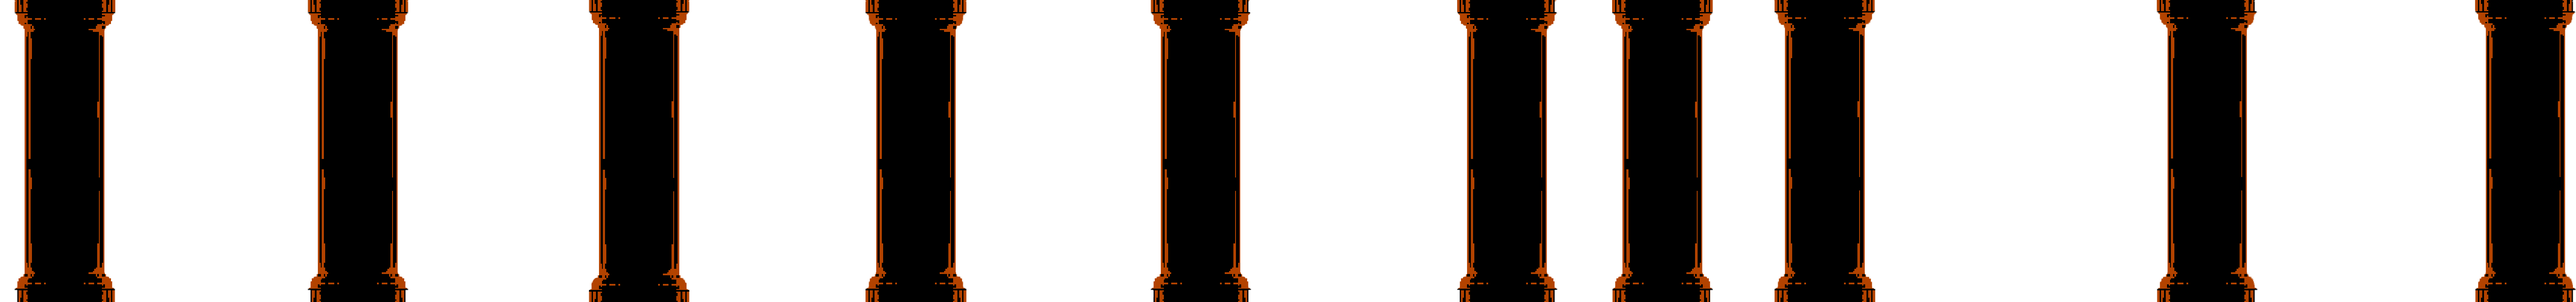
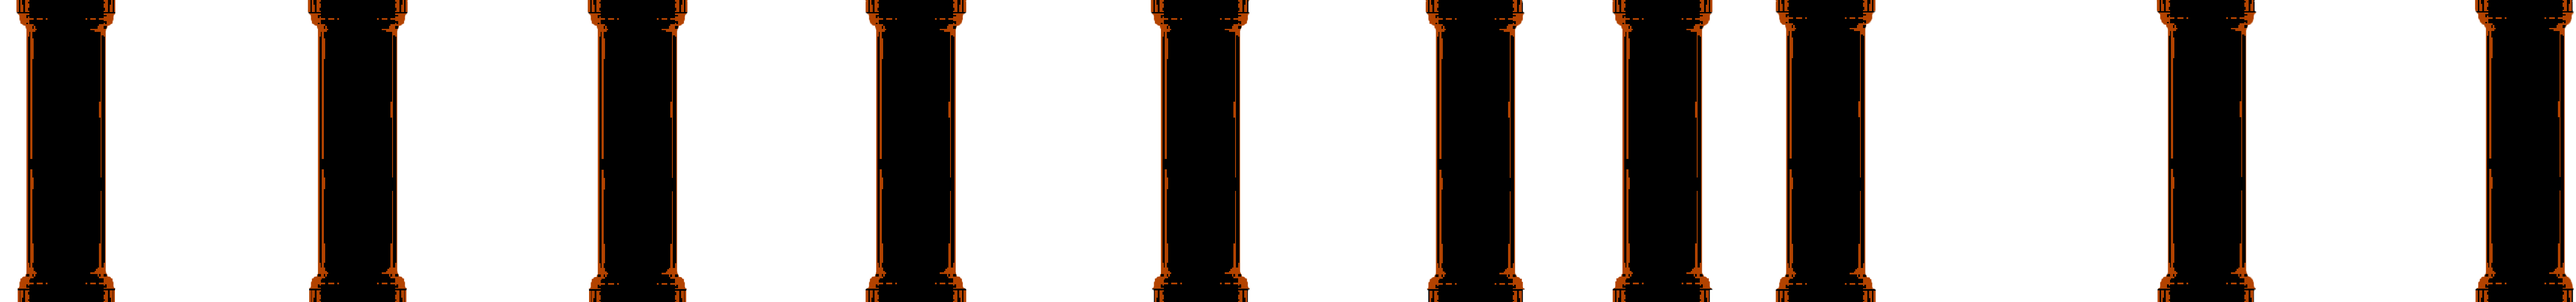
2021-02-04
달리기추가
이미지위치수정

diff --git a/SpaceEngine-master/Space/Player.cpp b/SpaceEngine-master/Space/Player.cpp
@@ -90,18 +90,18 @@ void Player::Move(float deltaTime, float Time)
 			m_Player = m_Player_Up;
 			m_Status = Status::UP;
 			
-			if (!Up) {
+			if (!Up && m_Position.y >= 420) {
 				m_Position.y -= m_Speed * dt;
 				if (m_Player->m_CurrentFrame % 2 == 0)
 					m_Player->Update(deltaTime, Time);
 			}
 			}
-		if (INPUT->GetKey('S') == KeyState::PRESS)
+		else if (INPUT->GetKey('S') == KeyState::PRESS)
 		{
 			m_Player = m_Player_Down;
 			m_Status = Status::DOWN;
 		
-			if (!Down) {
+			if (!Down && m_Position.y <= 615 + 75 / 2) {
 				m_Position.y += m_Speed * dt;
 				if (m_Player->m_CurrentFrame % 2 == 0)
 					m_Player->Update(deltaTime, Time);
@@ -109,29 +109,36 @@ void Player::Move(float deltaTime, float Time)
 		}
 		if (INPUT->GetKey('A') == KeyState::PRESS)
 		{
+
 			m_Player = m_Player_Left;
 			m_Status = Status::LEFT;
 			
-			if (!Left && m_Position.x > 10) {
+			if (!Left && m_Position.x > 40) {
 				m_Position.x -= m_Speed * dt;
 				if (m_Player->m_CurrentFrame % 2 == 0)
 					m_Player->Update(deltaTime, Time);
 
 			}
 		}
-		if (INPUT->GetKey('D') == KeyState::PRESS)
+		else if (INPUT->GetKey('D') == KeyState::PRESS)
 		{
-			m_Player = m_Player_Right;
+			m_Player = m_Player_Right;	
 			m_Status = Status::RIGHT;
 
-			if (!Right) {
+			if (!Right && m_Position.x < 4160) {
 				m_Position.x += m_Speed * dt;
 
 				if (m_Player->m_CurrentFrame % 2 == 0)
 					m_Player->Update(deltaTime, Time);
 			}
 		}
-
+		if (INPUT->GetKey(VK_SHIFT) == KeyState::PRESS)
+		{
+			m_Speed = 1000.f;
+		}
+		else {
+			m_Speed = 450.f;
+		}
 		if (m_Status != Status::NONE && m_Player->m_CurrentFrame % 2 != 0)
 		{
 			m_Player->Update(deltaTime, Time);
@@ -171,7 +178,16 @@ void Player::Update(float deltaTime, float Time)
 	}
 	if (INPUT->GetKey(VK_F2) == KeyState::DOWN)
 	{
-		SceneDirector::GetInst()->ChangeScene(new BattleScene());
+		ObjMgr->DeleteObject("Chet");
+		ObjMgr->DeleteObject("Chest");
+		ObjMgr->DeleteObject("Save");
+		ObjMgr->DeleteObject("sans");
+		ObjMgr->DeleteObject("Solids");
+		ObjMgr->DeleteObject("Pillar");
+		UI::GetInst()->b = false;
+		UI::GetInst()->d = false;
+		ObjMgr->AddObject(new Heart(Vec2(m_Position.x + m_Player->m_Size.x / 2 - 11, m_Position.y + m_Player->m_Size.y / 2)), "Soul");
+		SceneDirector::GetInst()->ChangeScene(new TestScene());
 	}
 	if (INPUT->GetKey('Z') == KeyState::DOWN)
 	{
@@ -211,11 +227,11 @@ void Player::Update(float deltaTime, float Time)
 
 	Move(deltaTime, Time);
 
-	m_ColBox->m_Position = Vec2(m_Position.x, m_Position.y + m_ColBox->m_Size.y+10);
-	m_Left->m_Position = Vec2(m_Position.x-5, m_ColBox->m_Position.y + 20);
-	m_Right->m_Position = Vec2(m_Position.x+ m_ColBox->m_Size.x, m_ColBox->m_Position.y+20);
-	m_Up->m_Position = Vec2(m_Position.x+30, m_Position.y + m_ColBox->m_Size.y+4);
-	m_Down->m_Position = Vec2(m_Position.x+30, m_ColBox-> m_Position.y + m_ColBox->m_Size.y);
+	m_ColBox->m_Position = Vec2(m_Position.x, m_Position.y + m_ColBox->m_Size.y/2);
+	m_Left->m_Position = Vec2(m_Position.x- m_ColBox->m_Size.x / 2, m_Position.y +25);
+	m_Right->m_Position = Vec2(m_Position.x+ m_ColBox->m_Size.x/2, m_Position.y+25);
+	m_Up->m_Position = Vec2(m_Position.x, m_Position.y);
+	m_Down->m_Position = Vec2(m_Position.x,m_Position.y + 50);
 
 	m_Player->SetVertex();
 
@@ -265,7 +281,6 @@ void Player::OnCollision(Object* other)
 			if (IntersectRect(&rc, &m_Down->m_Collision, &other->m_Collision))
 			{
 				Down = true;
-				Left = false;
 				Chest = true;
 			}
 			else if (IntersectRect(&rc, &m_Up->m_Collision, &other->m_Collision))
@@ -290,7 +305,6 @@ void Player::OnCollision(Object* other)
 			if (IntersectRect(&rc, &m_Down->m_Collision, &other->m_Collision))
 			{
 				Down = true;
-				Left = false;
 			}
 			else if (IntersectRect(&rc, &m_Up->m_Collision, &other->m_Collision))
 			{
@@ -305,18 +319,17 @@ void Player::OnCollision(Object* other)
 		{
 			if (IntersectRect(&rc, &m_Left->m_Collision, &other->m_Collision))
 			{
-				Left = true;
+				Right = true;
 				Save = true;
 			}
 			else if (IntersectRect(&rc, &m_Right->m_Collision, &other->m_Collision))
 			{
-				Right = true;
+				Left = true;
 				Save = true;
 			}
 			if (IntersectRect(&rc, &m_Down->m_Collision, &other->m_Collision))
 			{
 				Down = true;
-				Left = false;
 				Save = true;
 			}
 			else if (IntersectRect(&rc, &m_Up->m_Collision, &other->m_Collision))

diff --git a/SpaceEngine-master/Space/Sprite.cpp b/SpaceEngine-master/Space/Sprite.cpp
@@ -49,18 +49,11 @@ Sprite* Sprite::Create(std::wstring fileName, D3DCOLOR ColorKey)
 
 void Sprite::Render()
 {
-	
 	if (m_Parent)
 	{
-		if (m_Parent->m_Tag == "Soul" ||m_Parent->m_Tag == "Bone" || m_Parent->m_Tag == "BlueBone" || m_Parent->m_Tag == "GasterBlaster" || m_Parent->m_Tag == "Platform")
-		{
-			SetRect(&m_Parent->m_Collision, m_Parent->m_Position.x - m_Size.x/2, m_Parent->m_Position.y - m_Size.y/2,
-											m_Parent->m_Position.x + m_Size.x/2 , m_Parent->m_Position.y + m_Size.y/2);
-		}
-		else{
-			SetRect(&m_Parent->m_Collision, m_Parent->m_Position.x - m_Size.x / 2, m_Parent->m_Position.y - m_Size.y,
-				m_Parent->m_Position.x + m_Size.x, m_Parent->m_Position.y + m_Size.y);
-		}
+		SetRect(&m_Parent->m_Collision, m_Parent->m_Position.x - m_Size.x / 2, m_Parent->m_Position.y - m_Size.y / 2,
+			m_Parent->m_Position.x + m_Size.x / 2, m_Parent->m_Position.y + m_Size.y / 2);
+
 		m_Parent->m_Size = m_Size;
 	}
 	else
@@ -68,10 +61,12 @@ void Sprite::Render()
 		SetRect(&m_Collision, m_Position.x - m_Size.x / 2, m_Position.y - m_Size.y / 2,
 			m_Position.x + m_Size.x / 2, m_Position.y + m_Size.y / 2);
 	}
+
 	Camera::GetInst()->Render();
 	m_pSp->Begin(D3DXSPRITE_ALPHABLEND);
 
 	Matrix transForm = Camera::GetInst()->GetWorld() * GetMatrix();
+
 	if (m_Tag == "UI")
 		transForm = GetMatrix();
 	else

diff --git a/SpaceEngine-master/Space/Object.cpp b/SpaceEngine-master/Space/Object.cpp
@@ -31,11 +31,11 @@ Matrix Object::GetMatrix()
 
 	if (m_Tag != "UI" || m_Tag != "Chet")
 	{
-		RotCenter.x = -Camera::GetInst()->m_Position.x + m_RotationCenter.x + m_Size.x / 2;
-		RotCenter.y = -Camera::GetInst()->m_Position.y + m_RotationCenter.y + m_Size.y / 2;
+		RotCenter.x = -Camera::GetInst()->m_Position.x + m_RotationCenter.x ;
+		RotCenter.y = -Camera::GetInst()->m_Position.y + m_RotationCenter.y;
 
-		ScaleCenter.x = -Camera::GetInst()->m_Position.x + m_ScaleCenter.x + m_Size.x / 2;
-		ScaleCenter.y = -Camera::GetInst()->m_Position.y + m_ScaleCenter.y + m_Size.y / 2;
+		ScaleCenter.x = -Camera::GetInst()->m_Position.x + m_ScaleCenter.x ;
+		ScaleCenter.y = -Camera::GetInst()->m_Position.y + m_ScaleCenter.y;
 	}
 	D3DXMatrixTransformation2D(&m_wMat, &ScaleCenter, 0, &m_Scale, &RotCenter, m_Rotation, &m_Position);
 

diff --git a/SpaceEngine-master/Space/Bones.cpp b/SpaceEngine-master/Space/Bones.cpp
@@ -48,12 +48,6 @@ Bones::~Bones()
 
 void Bones::Update(float deltaTime, float Time)
 {
-
-	std::cout << m_Collision.left << std::endl;//774
-	std::cout << m_Collision.right << std::endl;//1146
-	std::cout << m_Collision.top << std::endl;//1174
-	std::cout << m_Collision.bottom << std::endl;
-
 	dtime += dt;
 	if (m_direction == _left) {
 		m_Position.x -= m_Speed * dt;
@@ -69,7 +63,7 @@ void Bones::Update(float deltaTime, float Time)
 	}
 	if (dtime >= 5)
 		ObjMgr->RemoveObject(this);
-	m_Bones->SetPosition(m_Position.x+(m_Size.x-m_Bones->m_Size.x)/2, m_Position.y+ (m_Size.y - m_Bones->m_Size.y)/2);
+	m_Bones->SetPosition(m_Position.x, m_Position.y );
 	
 }
 
@@ -77,10 +71,6 @@ void Bones::Render()
 {
 	m_Bones->Render();
 	m_ColBox->Render();
-
-
-
-	
 }
 
 void Bones::OnCollision(Object* obj)

diff --git a/SpaceEngine-master/Space/Pillar.cpp b/SpaceEngine-master/Space/Pillar.cpp
@@ -30,12 +30,12 @@ void Pillar::Update(float deltaTime, float Time)
 	}
 	
 	if(Pos.x>270)
-	SetPosition(386+200-Pos.x*0.75f + m_Pos , 720/2);
+	SetPosition(2300+ 1300 -Pos.x*0.75f + m_Pos , 720/2);
 
 	if (SceneDirector::GetInst()->m_scene == scene::dialogscene)
 	{
 		ptime += dt;
-		if (ptime > 2 && ptime < 7) {
+		if (ptime > 2 && ptime < 6) {
 			m_Pos -= (70 * dt);
 		}
 		

diff --git a/SpaceEngine-master/Space/Text_Bubbles.cpp b/SpaceEngine-master/Space/Text_Bubbles.cpp
@@ -23,7 +23,7 @@ Text_Bubbles::~Text_Bubbles()
 void Text_Bubbles::Update(float deltaTime, float Time)
 {
 	m_RText->Update(deltaTime, Time);
-	m_Expression->m_Position = Vec2(m_Position.x + m_Expression->m_Size.x/2,m_Position.y + m_Expression->m_Size.y/2-20);
+	m_Expression->m_Position = Vec2(m_Position.x-500,m_Position.y);
 }
 
 void Text_Bubbles::Render()
